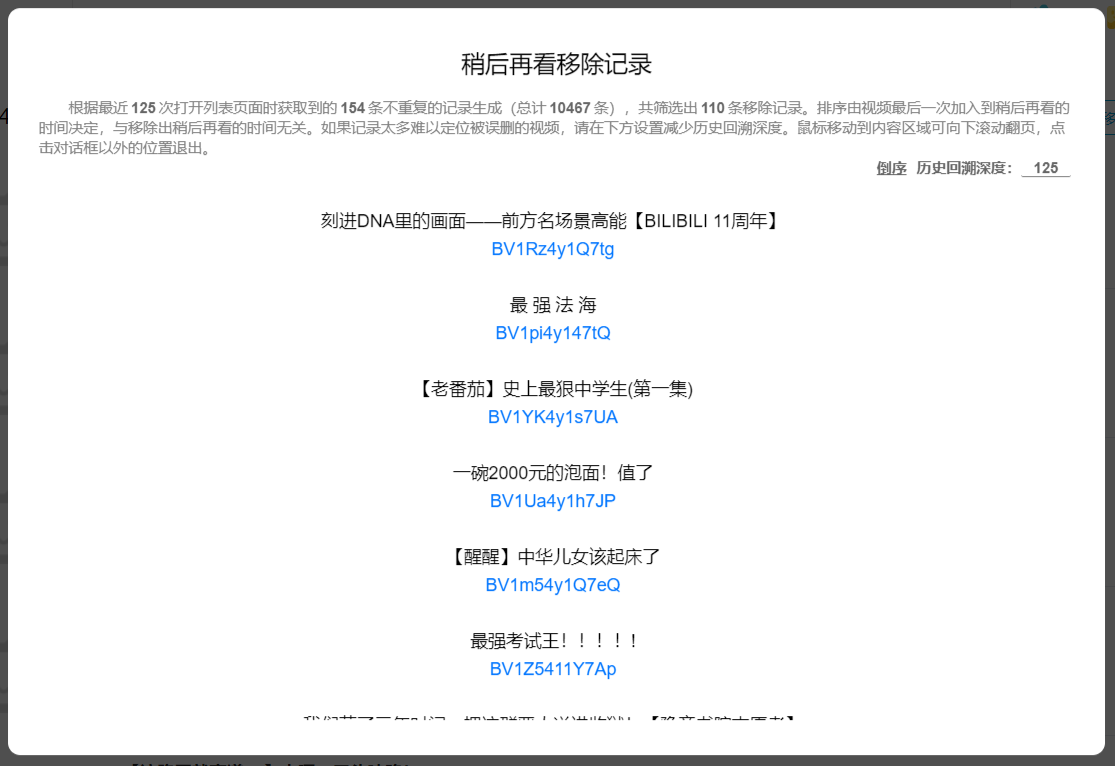
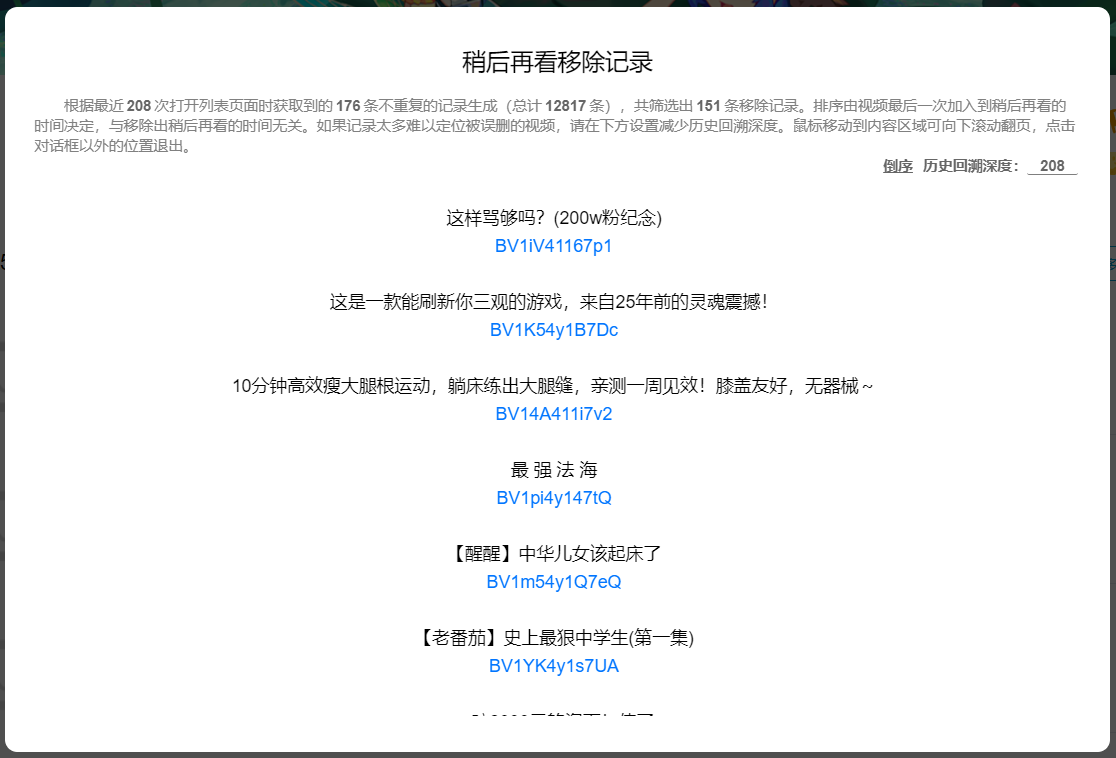
B站稍后再看功能增强
1. 弃用 transform，彻底解决字体发虚的问题。按照原来的方案，一旦修改导致相关页面的高、宽变化，就可能会有发虚的问题，而且每个浏览器都要调不同的数值去解决，搞不来，还是用 js 算位置好了。
2. 修复稍后再看没有一个视频时，脚本运行出错的问题。
3. 为脚本增加 ICON。
4. 修改默认历史回溯深度，并完善文档。
5. 进一步优化滚动条相关样式。
6. API：多个工具函数的修复（虽然并没有实际导致什么问题，防微杜渐）与功能增强。

diff --git a/BilibiliWatchlaterPlus/BilibiliWatchlaterPlus.js b/BilibiliWatchlaterPlus/BilibiliWatchlaterPlus.js
@@ -1,10 +1,11 @@
 // ==UserScript==
 // @id              BilibiliWatchlaterPlus@Laster2800
 // @name            B站稍后再看功能增强
-// @version         3.3.1.20200727
+// @version         3.4.0.20200728
 // @namespace       laster2800
 // @author          Laster2800
 // @description     与稍后再看功能相关，一切你能想到和想不到的功能
+// @icon            https://www.bilibili.com/favicon.ico
 // @homepage        https://greasyfork.org/zh-CN/scripts/395456
 // @supportURL      https://greasyfork.org/zh-CN/scripts/395456/feedback
 // @include         *://www.bilibili.com/*
@@ -40,6 +41,7 @@
    * @property {GMObject_regex} regex 正则表达式
    * @property {GMObject_const} const 常量
    * @property {GMObject_menu} menu 菜单
+   * @property {{[s: string]: HTMLElement}} el HTML 元素
    * @property {GMObject_error} error 错误信息
    */
   /**
@@ -95,6 +97,7 @@
    * @property {number} rhsMin 列表页面数据最小保存次数
    * @property {number} rhsMax 列表页面数据最大保存次数
    * @property {number} defaultRhs 列表页面数据的默认保存次数
+   * @property {number} defaultRhst 默认历史回溯深度
    * @property {number} rhsWarning 列表页面数据保存数警告线
    * @property {number} fadeTime UI 渐变时间
    * @property {number} textFadeTime 文字渐变时间
@@ -265,6 +268,7 @@
         rhsMin: 1,
         rhsMax: 1024, // 经过性能测试，放宽到 1024 应该没有太大问题
         defaultRhs: 64, // 就目前的PC运算力，即使达到 gm.const.rhsWarning 且在极限情况下也不会有明显的卡顿
+        defaultRhst: 16,
         rhsWarning: 256,
         // 渐变时间
         fadeTime: 400,
@@ -287,7 +291,7 @@
         forceConsistentVideo: true,
         removeHistory: true,
         removeHistorySaves: gm.const.defaultRhs,
-        removeHistorySearchTimes: 8,
+        removeHistorySearchTimes: gm.const.defaultRhst,
         removeButton_removeAll: false,
         removeButton_removeWatched: false,
         resetAfterFnUpdate: false,
@@ -1023,7 +1027,7 @@
             if (response && response.responseText) {
               try {
                 var json = JSON.parse(response.responseText)
-                var watchlaterList = json.data.list
+                var watchlaterList = json.data.list || []
                 for (var e of watchlaterList) {
                   if (aid == e.aid) {
                     resolve(true)
@@ -1158,7 +1162,7 @@
             var current = []
             try {
               var json = JSON.parse(response.responseText)
-              var watchlaterList = json.data.list
+              var watchlaterList = json.data.list || []
               for (var e of watchlaterList) {
                 current.push({
                   title: e.title,
@@ -1250,7 +1254,7 @@
           gm.menu.setting.el = gm.el.setting
           gm.el.setting.className = 'gm-setting'
           gm.el.setting.innerHTML = `
-<div class="gm-setting-page">
+<div id="gm-setting-page">
     <div class="gm-title">
         <div id="gm-maintitle" onclick="window.open('${GM_info.script.homepage}')" title="${GM_info.script.homepage}">B站稍后再看功能增强</div>
         <div class="gm-subtitle">V${GM_info.script.version} by ${GM_info.script.author}</div>
@@ -1337,6 +1341,7 @@
             el[name] = gm.el.setting.querySelector('#gm-' + name)
           }
 
+          el.settingPage = gm.el.setting.querySelector('#gm-setting-page')
           el.save = gm.el.setting.querySelector('#gm-save')
           el.cancel = gm.el.setting.querySelector('#gm-cancel')
           el.shadow = gm.el.setting.querySelector('.gm-shadow')
@@ -1464,6 +1469,11 @@
             el.cancel.disabled = true
             el.shadow.setAttribute('disabled', 'disabled')
           }
+
+          el.settingPage.parentNode.style.display = 'block'
+          setTimeout(() => {
+            setAbsoluteCenter(el.settingPage)
+          }, 10)
         }
 
         var needReload = false
@@ -1525,7 +1535,7 @@
             GM_setValue('configVersion', gm.configVersion)
             // 关闭初始化状态
             setTimeout(() => {
-              el.reset.style.display = 'unset'
+              el.reset.style.display = ''
               el.cancel.disabled = false
               el.shadow.removeAttribute('disabled')
             }, gm.const.fadeTime)
@@ -1743,6 +1753,11 @@
           el.shadow.onclick = () => {
             closeMenuItem('history')
           }
+
+          el.historyPage.parentNode.style.display = 'block'
+          setTimeout(() => {
+            setAbsoluteCenter(el.historyPage)
+          }, 10)
         }
 
         /**
@@ -1767,7 +1782,7 @@
                 try {
                   var bvid = []
                   var json = JSON.parse(response.responseText)
-                  var watchlaterList = json.data.list
+                  var watchlaterList = json.data.list || []
                   for (var e of watchlaterList) {
                     bvid.push(e.bvid)
                   }
@@ -1872,15 +1887,17 @@
 
     /**
      * 对“打开菜单项”这一操作进行处理，包括显示菜单项、设置当前菜单项的状态、关闭其他菜单项
+     * @param {string} name 菜单项的名称
+     * @param {() => void} [callback] 打开菜单项后的回调函数
      */
-    function openMenuItem(name) {
+    function openMenuItem(name, callback) {
       if (!gm.menu[name].state) {
         for (var key in gm.menu) {
           var menu = gm.menu[key]
           if (key == name) {
             menu.state = true
             menu.openHandler && menu.openHandler()
-            fade(true, menu.el)
+            fade(true, menu.el, callback)
           } else {
             if (menu.state) {
               closeMenuItem(key)
@@ -1893,15 +1910,40 @@
     /**
      * 对“关闭菜单项”这一操作进行处理，包括隐藏菜单项、设置当前菜单项的状态
      * @param {string} name 菜单项的名称
+     * @param {() => void} [callback] 关闭菜单项后的回调函数
      */
-    function closeMenuItem(name) {
+    function closeMenuItem(name, callback) {
       var menu = gm.menu[name]
       if (menu.state) {
         menu.state = false
         fade(false, menu.el, () => {
           menu.closeHandler && menu.closeHandler()
+          callback && callback()
         })
       }
+    }
+
+    /**
+     * 将一个元素绝对居中，要求该元素此时可见
+     * @param {HTMLElement} target 目标元素
+     * @param {Object} [config] 配置
+     * @param {string} [config.position='fixed'] 定位方式
+     * @param {string} [config.top='50%'] `style.top`
+     * @param {string} [config.left='50%'] `style.left`
+     */
+    function setAbsoluteCenter(target, config) {
+      var defaultConfig = {
+        position: 'fixed',
+        top: '50%',
+        left: '50%',
+      }
+      config = { ...defaultConfig, ...config }
+      var style = getComputedStyle(target)
+      var top = (parseFloat(style.height) + parseFloat(style.paddingTop) + parseFloat(style.paddingBottom)) / 2
+      var left = (parseFloat(style.width) + parseFloat(style.paddingLeft) + parseFloat(style.paddingRight)) / 2
+      target.style.top = `calc(${config.top} - ${top}px)`
+      target.style.left = `calc(${config.left} - ${left}px)`
+      target.style.position = config.position
     }
 
     /**
@@ -1911,7 +1953,7 @@
      * @param {boolean} [config.autoClose=true] 是否自动关闭信息，配合 `config.ms` 使用
      * @param {number} [config.ms=gm.const.messageTime] 显示时间（单位：ms，不含渐显/渐隐时间）
      * @param {boolean} [config.html=false] 是否将 `msg` 理解为 HTML
-     * @param {string} [width] 信息框的宽度，不设置的情况下根据内容决定，但有最小宽度和最大宽度的限制
+     * @param {string} [config.width] 信息框的宽度，不设置的情况下根据内容决定，但有最小宽度和最大宽度的限制
      * @param {{top: string, left: string}} [config.position] 信息框的位置，不设置该项时，相当于设置为 `{ top: gm.const.messageTop, left: gm.const.messageLeft }`
      * @return {HTMLElement} 信息框元素
      */
@@ -1920,8 +1962,11 @@
         autoClose: true,
         ms: gm.const.messageTime,
         html: false,
-        position: null,
         width: null,
+        position: {
+          top: gm.const.messageTop,
+          left: gm.const.messageLeft,
+        },
       }
       config = { ...defaultConfig, ...config }
 
@@ -1932,10 +1977,11 @@
         msgbox.style.maxWidth = 'none'
         msgbox.style.width = config.width
       }
-      if (config.position) {
-        msgbox.style.top = config.position.top
-        msgbox.style.left = config.position.left
-      }
+
+      msgbox.style.display = 'block'
+      setTimeout(() => {
+        setAbsoluteCenter(msgbox, config.position)
+      }, 10)
 
       if (config.html) {
         msgbox.innerHTML = msg
@@ -1977,8 +2023,7 @@
     function advancedMessage(el, msg, flag, config) {
       var defaultConfig = {
         flagSize: '1.8em',
-        width: null,
-        position: null,
+        // 不能把数据列出，否则解构的时候会出问题
       }
       config = { ...defaultConfig, ...config }
 
@@ -2023,7 +2068,9 @@
       target._fadeId = fadeId
       if (inOut) { // 渐显
         // 只有 display 可视情况下修改 opacity 才会触发 transition
-        target.style.display = 'unset'
+        if (getComputedStyle(target).display == 'none') {
+          target.style.display = 'unset'
+        }
         setTimeout(() => {
           var success = false
           if (target._fadeId <= fadeId) {
@@ -2270,6 +2317,10 @@
     border-radius: 3px;
     background-color: #0000002b;
 }
+[role=tooltip] ::-webkit-scrollbar-corner,
+#app > .out-container > .container::-webkit-scrollbar-corner {
+  background-color: #00000000;
+}
           `
           break
         case enums.menuScrollbarSetting.hidden:
@@ -2308,11 +2359,7 @@
     z-index: 10000;
     user-select: none;
 }
-#${gm.id} .gm-setting .gm-setting-page {
-    position: fixed;
-    top: 50%;
-    left: 50%;
-    transform: translate(-50%, -50%);
+#${gm.id} .gm-setting #gm-setting-page {
     background-color: #ffffff;
     border-radius: 10px;
     z-index: 65535;
@@ -2424,16 +2471,11 @@
     user-select: none;
 }
 #${gm.id} .gm-history .gm-history-page {
-    position: fixed;
-    top: 50%;
-    left: 50%;
-    transform: translate(-50%, -50%);
     background-color: #ffffff;
     border-radius: 10px;
     z-index: 65535;
-    height: 75%;
-    width: 60%;
-    padding: 0.1em;
+    height: 75vh;
+    width: 60vw;
 }
 #${gm.id} .gm-history .gm-comment {
     margin: 0 2em;
@@ -2479,6 +2521,9 @@
 #${gm.id} .gm-history .gm-content:hover::-webkit-scrollbar-thumb {
     border-radius: 3px;
     background-color: #0000002b;
+}
+#${gm.id} .gm-history .gm-content::-webkit-scrollbar-corner {
+  background-color: #00000000;
 }
 #${gm.id} .gm-history .gm-content > div:hover {
     font-weight: bold;
@@ -2564,10 +2609,6 @@
 }
 
 .${gm.id}-msgbox {
-    position: fixed;
-    top: ${gm.const.messageTop};
-    left: ${gm.const.messageLeft};
-    transform: translate(-50%, -50%);
     z-index: 65535;
     background-color: #000000bf;
     font-size: 16px;
@@ -2643,7 +2684,7 @@
               part = parseInt(location.href.match(/(?<=\/watchlater\/p)\d+(?=\/?)/)[0])
             } // 如果匹配不上，就是以 watchlater/ 直接结尾，等同于 watchlater/p1
             var json = JSON.parse(response.responseText)
-            var watchlaterList = json.data.list
+            var watchlaterList = json.data.list || []
             location.replace(gm.url.page_videoNormalMode + '/' + watchlaterList[part - 1].bvid)
           } catch (e) {
             var errorInfo = gm.error.REDIRECT
